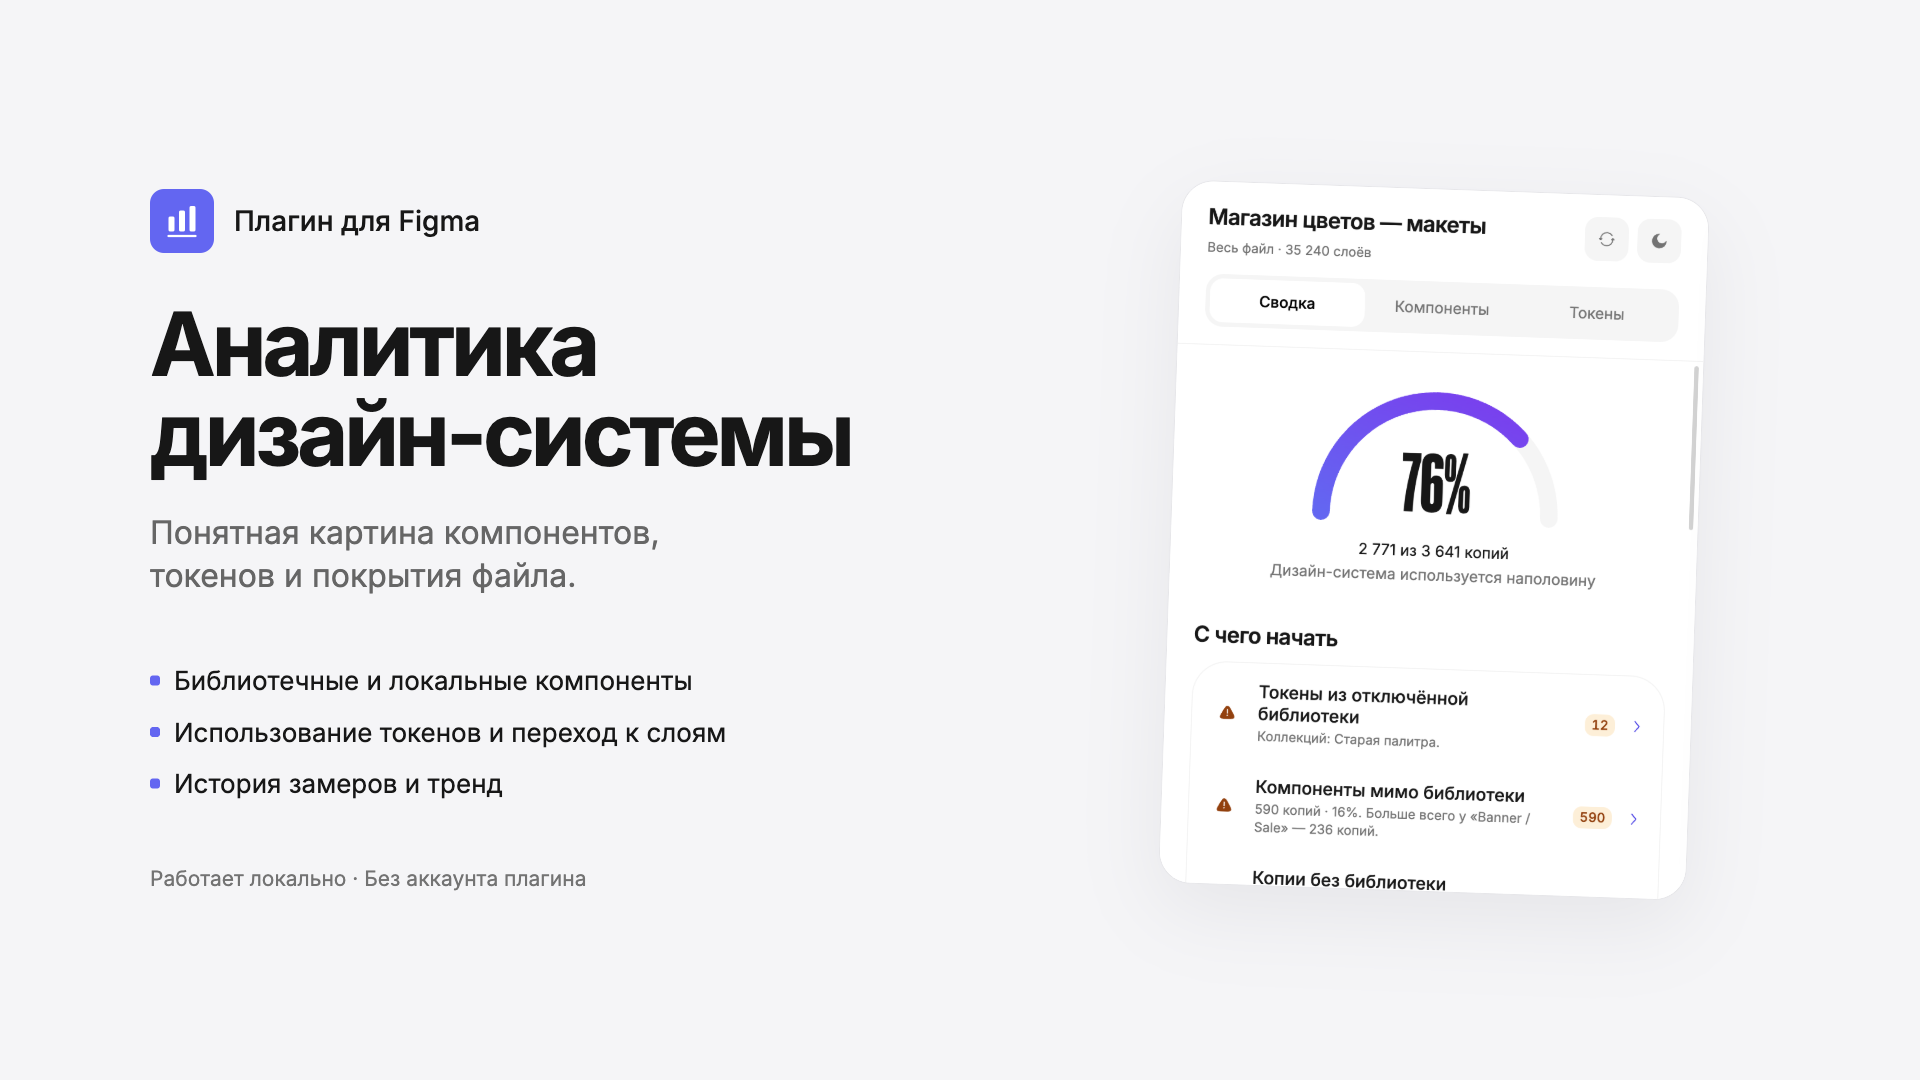
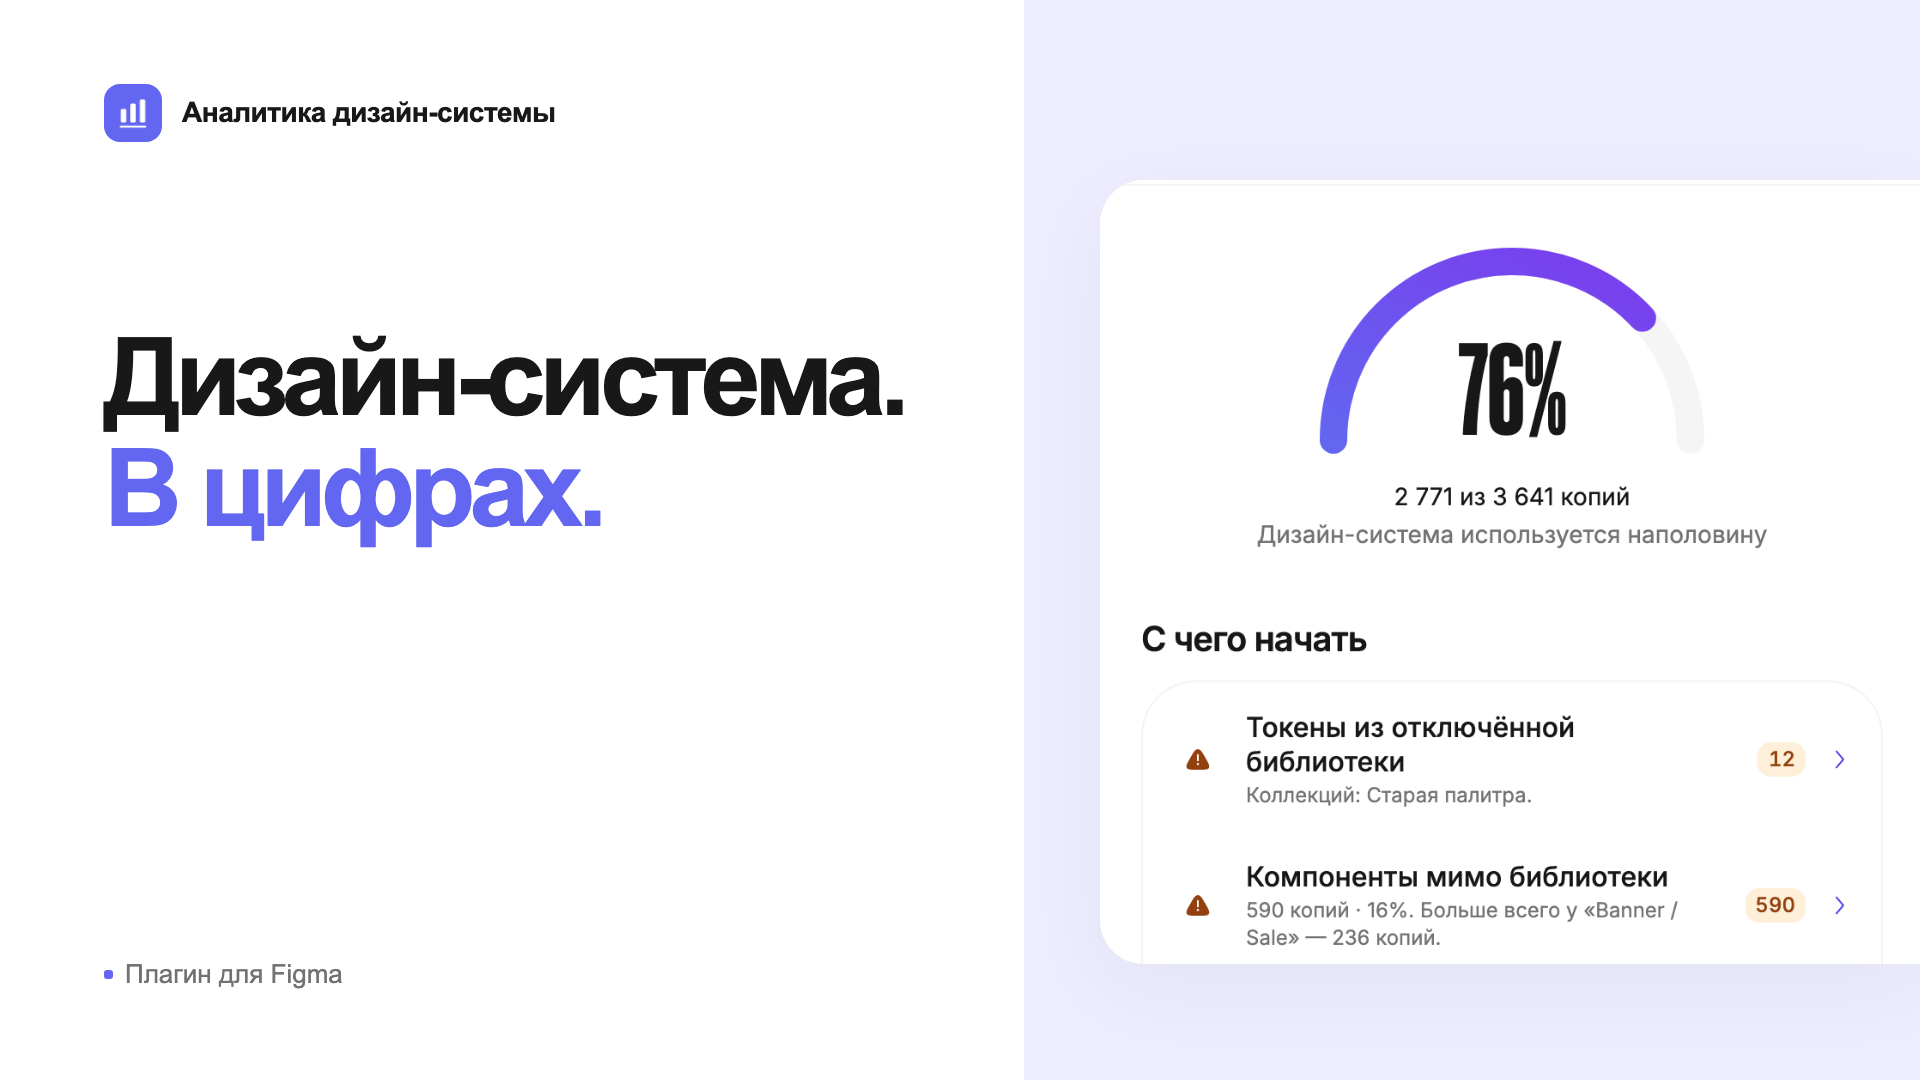
Упростить обложки Community и увеличить интерфейс

diff --git a/docs/publication/status.md b/docs/publication/status.md
@@ -26,3 +26,19 @@ and contact you when it’s ready.» Одобрение и публичная д
 HTML 499,5 КБ. Временная локальная регистрация использует ту же production-сборку.
 Следующее внешнее событие — решение модерации Figma; проверку не выдаём
 за завершённую публикацию.
+
+## Обновлённые обложки после отправки
+
+13 ноября подготовлена новая серия 1920 × 1080: `cover.png`,
+`components.png`, `tokens.png`. Убраны списки и абзацы, оставлен один
+крупный тезис на кадр; увеличены фрагменты настоящего интерфейса.
+Визуально проверены все три кадра и превью шириной 312 px.
+
+Референс: Joi в Mobbin (страница открыта в авторизованном Chrome) и первые
+18 экранов локального архива Joi ios Oct 2026. Использованы принципы
+коротких заголовков, белых поверхностей и точечных цветовых акцентов;
+чужие экраны в обложки не включены.
+
+Эти изображения пока **не заменены в отправленной карточке Community**.
+Воспроизведение: `scripts/promo/covers.mjs` (Playwright, предпросмотр dist
+на порту 4174). Исходные изображения прежней обложки сохранены в git.
